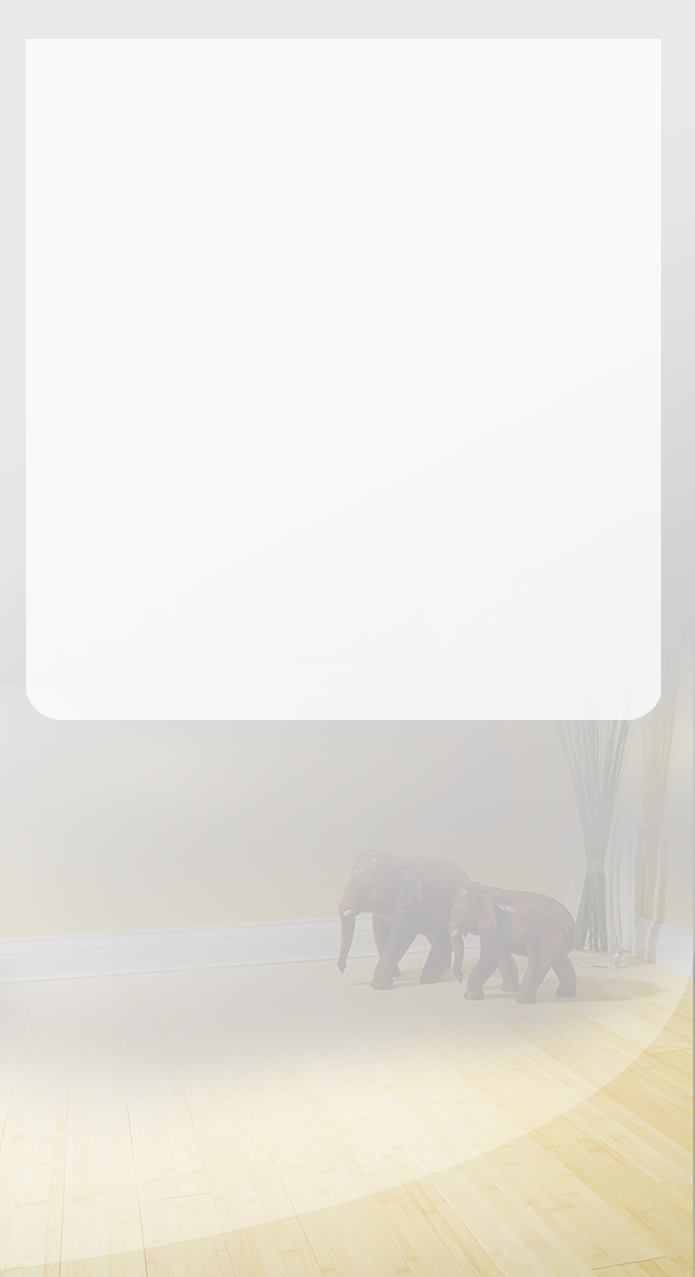
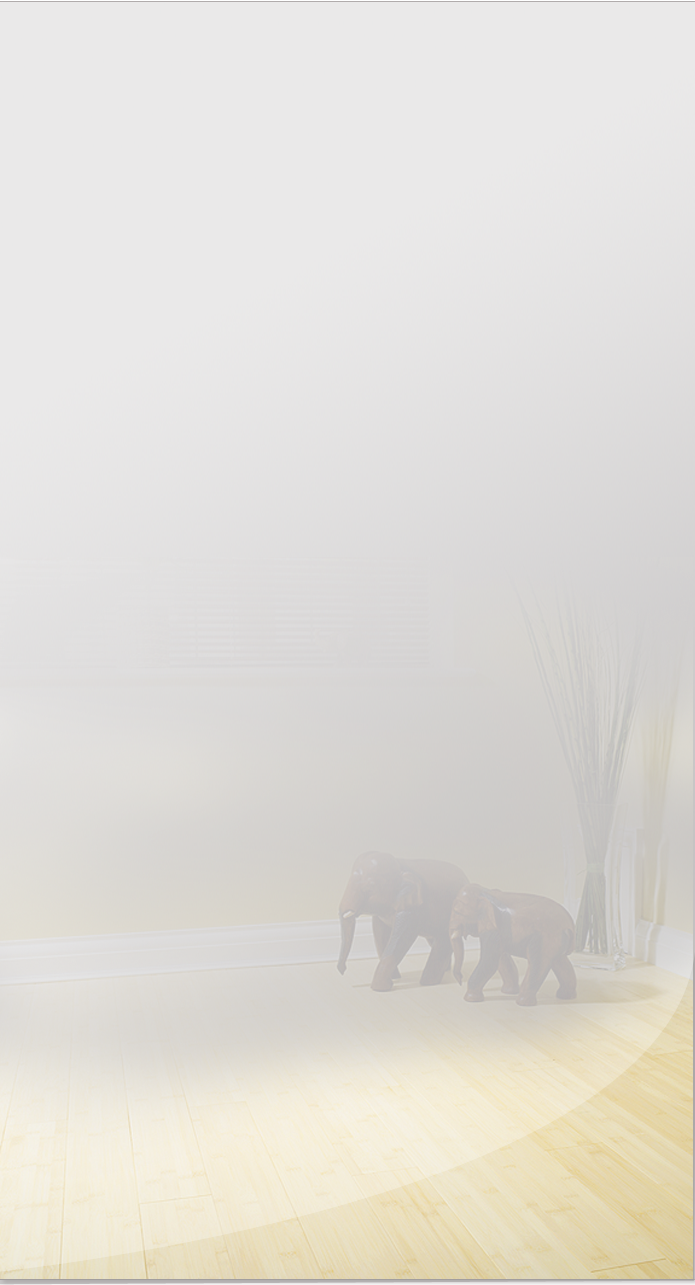
main content auto height

Changed region(s): [[0.0302, 0.2443, 0.9669, 0.5803], [0.0, 0.9773, 1.0, 1.0]]

diff --git a/css/main.css b/css/main.css
@@ -267,10 +267,23 @@ textarea {
       top: -80px;
       clear: both;
       background-image: url('../img/content_body.png');
-      height: 1277px;
+      /*height: 1277px;*/
       width: 695px;
       float: right;
       margin-right: 50px;
+}
+
+.about{
+      background-color: yellow;
+      margin: 30px auto;
+      width: 637px;
+      /*height: 683px;*/
+      border-radius: 0px 0px 30px 30px / 0px 0px 30px 30px;
+}
+
+.about p{
+      font: bold 14px Verdana, sans-serif;
+      padding-top: 120px;
 }
 
 /* align footer links */

diff --git a/index.html b/index.html
@@ -71,6 +71,9 @@
                 </div>
                 <div class="content">
                     <div class="content_body">
+                        <div class="about">
+                            <p>Our aim is to be number one in the UK - but we're glad to simply be Scotland's number one; for now. </p>
+                        </div>                        
                     </div><!-- end of content_body -->
                     <div class="content_side_bar">
                     </div><!-- end of content_side_bar -->
